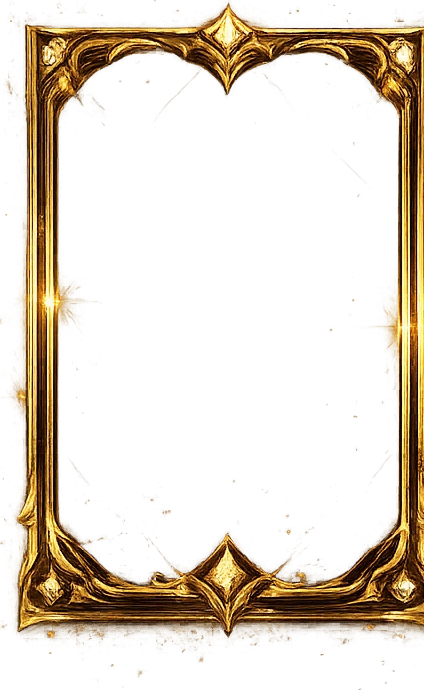
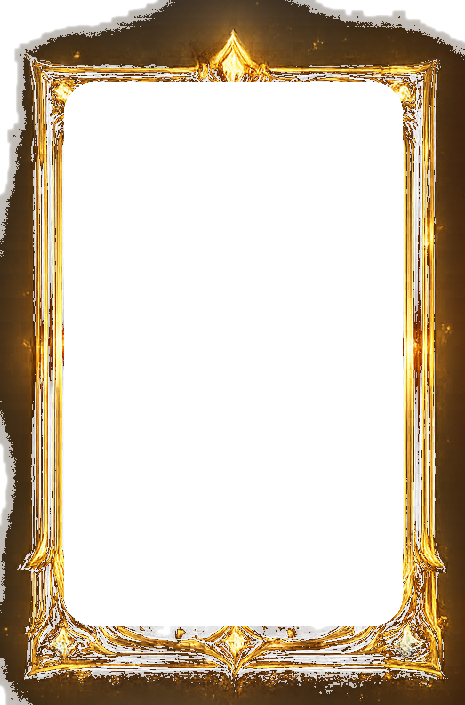
123

diff --git a/preview/card-frame-preview.css b/preview/card-frame-preview.css
@@ -118,26 +118,92 @@ h1{margin:0;font-size:clamp(28px,3vw,46px);letter-spacing:-1.4px}
 
 
 
-/* HYBRID FRAME OVERLAY */
-.preview-card.hybrid-frame{padding:0;border-radius:0;overflow:visible;background:transparent;box-shadow:0 28px 60px rgba(0,0,0,.58),0 0 34px var(--glow);filter:none}
-.preview-card.hybrid-frame::before{content:"";position:absolute;z-index:2;inset:-10px -15px -16px -15px;background:var(--frame-image) center/100% 100% no-repeat;pointer-events:none;filter:drop-shadow(0 0 18px color-mix(in srgb,var(--glow) 72%,transparent))}
-.preview-card.hybrid-frame::after{content:"";position:absolute;z-index:1;inset:0;border-radius:24px;background:radial-gradient(circle at 50% 14%,rgba(255,255,255,.09),transparent 28%),linear-gradient(180deg,rgba(17,14,7,.15),transparent 26%,rgba(12,8,5,.12) 78%,rgba(0,0,0,.38));pointer-events:none}
-.preview-card.hybrid-frame .card-inner{position:absolute;z-index:5;inset:31px 22px 30px;border-radius:20px;background:linear-gradient(180deg,rgba(8,18,34,.96),rgba(3,8,16,.98));backdrop-filter:blur(1px);border:1px solid color-mix(in srgb,var(--frame-a) 50%,#ffeab5)}
-.preview-card.hybrid-frame .card-art{border-color:rgba(255,231,171,.72);box-shadow:inset 0 0 22px rgba(0,0,0,.62),0 0 14px rgba(255,228,162,.12)}
-.preview-card.hybrid-frame .grade-corner,.preview-card.hybrid-frame .grade-glint{display:none}
-.preview-card.hybrid-frame .grade-orbit{opacity:.15}
-.preview-card.hybrid-frame .mini-crest{background:rgba(4,8,17,.82)}
-.astral-gold.hybrid-frame{--frame-image:url('./assets/prestige-frame-p02.webp');--frame-a:#ffe8a3;--frame-b:#7c5eff;--glow:rgba(255,206,104,.56);background:none;animation:frame-breathe 5s ease-in-out infinite}
-.astral-gold.hybrid-frame .grade-aura{inset:-50px;opacity:.58;background:radial-gradient(circle,rgba(255,210,98,.32),rgba(93,168,255,.16) 42%,transparent 72%)}
-.astral-gold.hybrid-frame .grade-sigil{top:-10px;border-color:#f7e1a7;box-shadow:0 0 18px rgba(255,216,115,.45),0 0 28px rgba(83,170,255,.25),inset 0 0 11px rgba(255,224,132,.25)}
+/* HYBRID FRAME OVERLAY - dedicated transparent assets */
+.preview-card.hybrid-frame{
+  padding:0;
+  border-radius:0;
+  overflow:visible;
+  background:transparent;
+  box-shadow:none;
+  filter:none;
+  animation:none;
+}
+.preview-card.hybrid-frame::before{
+  content:"";
+  position:absolute;
+  z-index:9;
+  inset:0;
+  background:var(--frame-image) center/100% 100% no-repeat;
+  pointer-events:none;
+  filter:drop-shadow(0 0 11px color-mix(in srgb,var(--glow) 62%,transparent));
+}
+.preview-card.hybrid-frame::after{
+  content:"";
+  position:absolute;
+  z-index:-2;
+  inset:8% 7%;
+  border-radius:28px;
+  background:radial-gradient(circle at 50% 16%,rgba(255,255,255,.12),transparent 30%),radial-gradient(circle,var(--glow),transparent 70%);
+  opacity:.54;
+  filter:blur(13px);
+  pointer-events:none;
+  animation:hybrid-aura 3.8s ease-in-out infinite;
+}
+.preview-card.hybrid-frame .card-inner{
+  position:absolute;
+  z-index:4;
+  padding:8px;
+  border-radius:17px;
+  background:linear-gradient(180deg,rgba(7,17,34,.985),rgba(2,7,16,.995));
+  border:1px solid rgba(255,228,164,.68);
+  box-shadow:inset 0 0 0 1px rgba(0,0,0,.8),inset 0 0 28px rgba(0,0,0,.42);
+  transform:none;
+}
+.preview-card.hybrid-frame .card-art{
+  border-color:rgba(255,231,171,.78);
+  box-shadow:inset 0 0 22px rgba(0,0,0,.62),0 0 12px rgba(255,228,162,.10);
+}
+.preview-card.hybrid-frame .grade-corner,
+.preview-card.hybrid-frame .grade-glint,
+.preview-card.hybrid-frame .grade-sigil,
+.preview-card.hybrid-frame .grade-orbit{display:none}
+.preview-card.hybrid-frame .grade-aura{
+  z-index:-4;
+  inset:-16%;
+  border-radius:44%;
+  opacity:.5;
+  filter:blur(4px);
+}
+.preview-card.hybrid-frame .mini-crest{background:rgba(4,8,17,.86)}
+.preview-card.hybrid-frame .enhance-overlay{inset:12%;z-index:12;border-radius:18px}
+
+.astral-gold.hybrid-frame{
+  --frame-image:url('./assets/prestige-frame-p02.webp');
+  --frame-a:#ffe9a7;
+  --frame-b:#8aa8ff;
+  --glow:rgba(255,207,96,.56);
+  width:250px;
+  aspect-ratio:465/705;
+}
+.astral-gold.hybrid-frame .card-inner{inset:11.7% 13.7% 11.4%}
+.astral-gold.hybrid-frame .grade-aura{background:radial-gradient(circle,rgba(255,210,98,.32),rgba(93,168,255,.14) 44%,transparent 72%)}
 .astral-gold.hybrid-frame .card-header span{color:#fff0be}
 .astral-gold.hybrid-frame .card-header b{color:#d3e8ff}
-.crimson-dominion.hybrid-frame{--frame-image:url('./assets/fur-frame-f02.webp');--frame-a:#ffe29a;--frame-b:#ff3f52;--glow:rgba(255,92,76,.68);background:none;animation:crimson-pulse 2.6s ease-in-out infinite,frame-breathe 4.8s ease-in-out infinite}
-.crimson-dominion.hybrid-frame .grade-aura{inset:-56px;opacity:.72;background:radial-gradient(circle,rgba(255,176,81,.32),rgba(255,52,67,.24) 40%,transparent 72%)}
-.crimson-dominion.hybrid-frame .grade-orbit{border-color:rgba(255,108,94,.38)}
-.crimson-dominion.hybrid-frame .grade-sigil{top:-12px;border-color:#ffd28d;box-shadow:0 0 18px rgba(255,98,75,.78),0 0 34px rgba(255,185,83,.34),inset 0 0 11px rgba(255,87,76,.35)}
+
+.crimson-dominion.hybrid-frame{
+  --frame-image:url('./assets/fur-frame-f02.webp');
+  --frame-a:#ffe09a;
+  --frame-b:#ff4b45;
+  --glow:rgba(255,86,60,.66);
+  width:250px;
+  aspect-ratio:485/715;
+}
+.crimson-dominion.hybrid-frame .card-inner{inset:14.5% 14% 11.8%}
+.crimson-dominion.hybrid-frame .grade-aura{background:radial-gradient(circle,rgba(255,169,62,.34),rgba(255,46,51,.24) 42%,transparent 72%)}
 .crimson-dominion.hybrid-frame .card-header span{color:#fff2c7}
 .crimson-dominion.hybrid-frame .card-header b{color:#ffd0c6}
+
+@keyframes hybrid-aura{50%{opacity:.78;transform:scale(1.035)}}
 
 .preview-footer{display:flex;gap:14px;align-items:center;margin-top:22px;padding:17px 20px;border:1px solid rgba(102,205,255,.18);border-radius:16px;background:rgba(4,15,34,.78);color:#91a9c8;font-size:13px}
 .preview-footer strong{color:#e7f8ff;white-space:nowrap}.preview-footer code{color:#70e5ff}
@@ -192,3 +258,5 @@ h1{margin:0;font-size:clamp(28px,3vw,46px);letter-spacing:-1.4px}
   *{scroll-behavior:auto!important}
   .preview-card,.preview-card *,.preview-card:before,.preview-card:after{animation:none!important;transition:none!important}
 }
+
+@media (min-width:431px){.concept-panel:has(.hybrid-frame) .card-stage{min-height:500px}}

diff --git a/preview/card-frame-preview.html b/preview/card-frame-preview.html
@@ -4,7 +4,7 @@
   <meta charset="utf-8">
   <meta name="viewport" content="width=device-width,initial-scale=1,viewport-fit=cover">
   <title>씨켓몬 PRESTIGE / FUR 프레임 미리보기</title>
-  <link rel="stylesheet" href="./card-frame-preview.css?v=1148">
+  <link rel="stylesheet" href="./card-frame-preview.css?v=1149">
 </head>
 <body>
   <main class="preview-shell" id="previewShell">
@@ -12,7 +12,7 @@
       <div class="hero-copy">
         <p class="eyebrow">PRIVATE FRAME LAB</p>
         <h1>PRESTIGE / FUR 프레임 시안</h1>
-        <p class="hero-note">실제 유저 화면과 분리된 독립 미리보기입니다. 이번 시안은 선택된 P-02 / F-02에 이미지 프레임 + CSS 오라를 결합한 하이브리드 방식까지 포함합니다.</p>
+        <p class="hero-note">실제 유저 화면과 분리된 독립 미리보기입니다. 이번 시안은 선택된 P-02 / F-02를 실제 카드 오버레이 전용 투명 프레임으로 다시 제작하고 CSS 오라만 결합했습니다.</p>
       </div>
       <div class="preview-controls" aria-label="미리보기 설정">
         <button type="button" class="control-button" id="toggleMotion" aria-pressed="false">애니메이션 정지</button>
@@ -63,7 +63,7 @@
           <div class="concept-copy">
             <span class="concept-index">P-02</span><span class="hybrid-tag">선택안 · 하이브리드</span>
             <h3>황금 성좌</h3>
-            <p>진화 전용 등급의 정체성을 강조한 마법진·성좌형 디자인.</p>
+            <p>투명 프레임 전용 자산으로 다시 제작한 황금 성좌형 하이브리드 디자인.</p>
           </div>
           <div class="card-stage">
             <div class="preview-card prestige astral-gold hybrid-frame" data-tilt>
@@ -159,7 +159,7 @@
           <div class="concept-copy">
             <span class="concept-index">F-02</span><span class="hybrid-tag">선택안 · 하이브리드</span>
             <h3>크림슨 패권</h3>
-            <p>황금 프레임에 붉은 에너지 맥동을 더한 공격적이고 강렬한 최종 등급안.</p>
+            <p>투명 프레임 전용 자산에 붉은 에너지 맥동을 결합한 최종 등급안.</p>
           </div>
           <div class="card-stage">
             <div class="preview-card fur crimson-dominion hybrid-frame" data-tilt>
@@ -218,6 +218,6 @@
       <span>배포 후 <code>/preview/card-frame-preview.html</code> 주소를 직접 열어 확인합니다. 메인 메뉴에는 연결되지 않습니다.</span>
     </footer>
   </main>
-  <script src="./card-frame-preview.js?v=1147"></script>
+  <script src="./card-frame-preview.js?v=1149"></script>
 </body>
 </html>